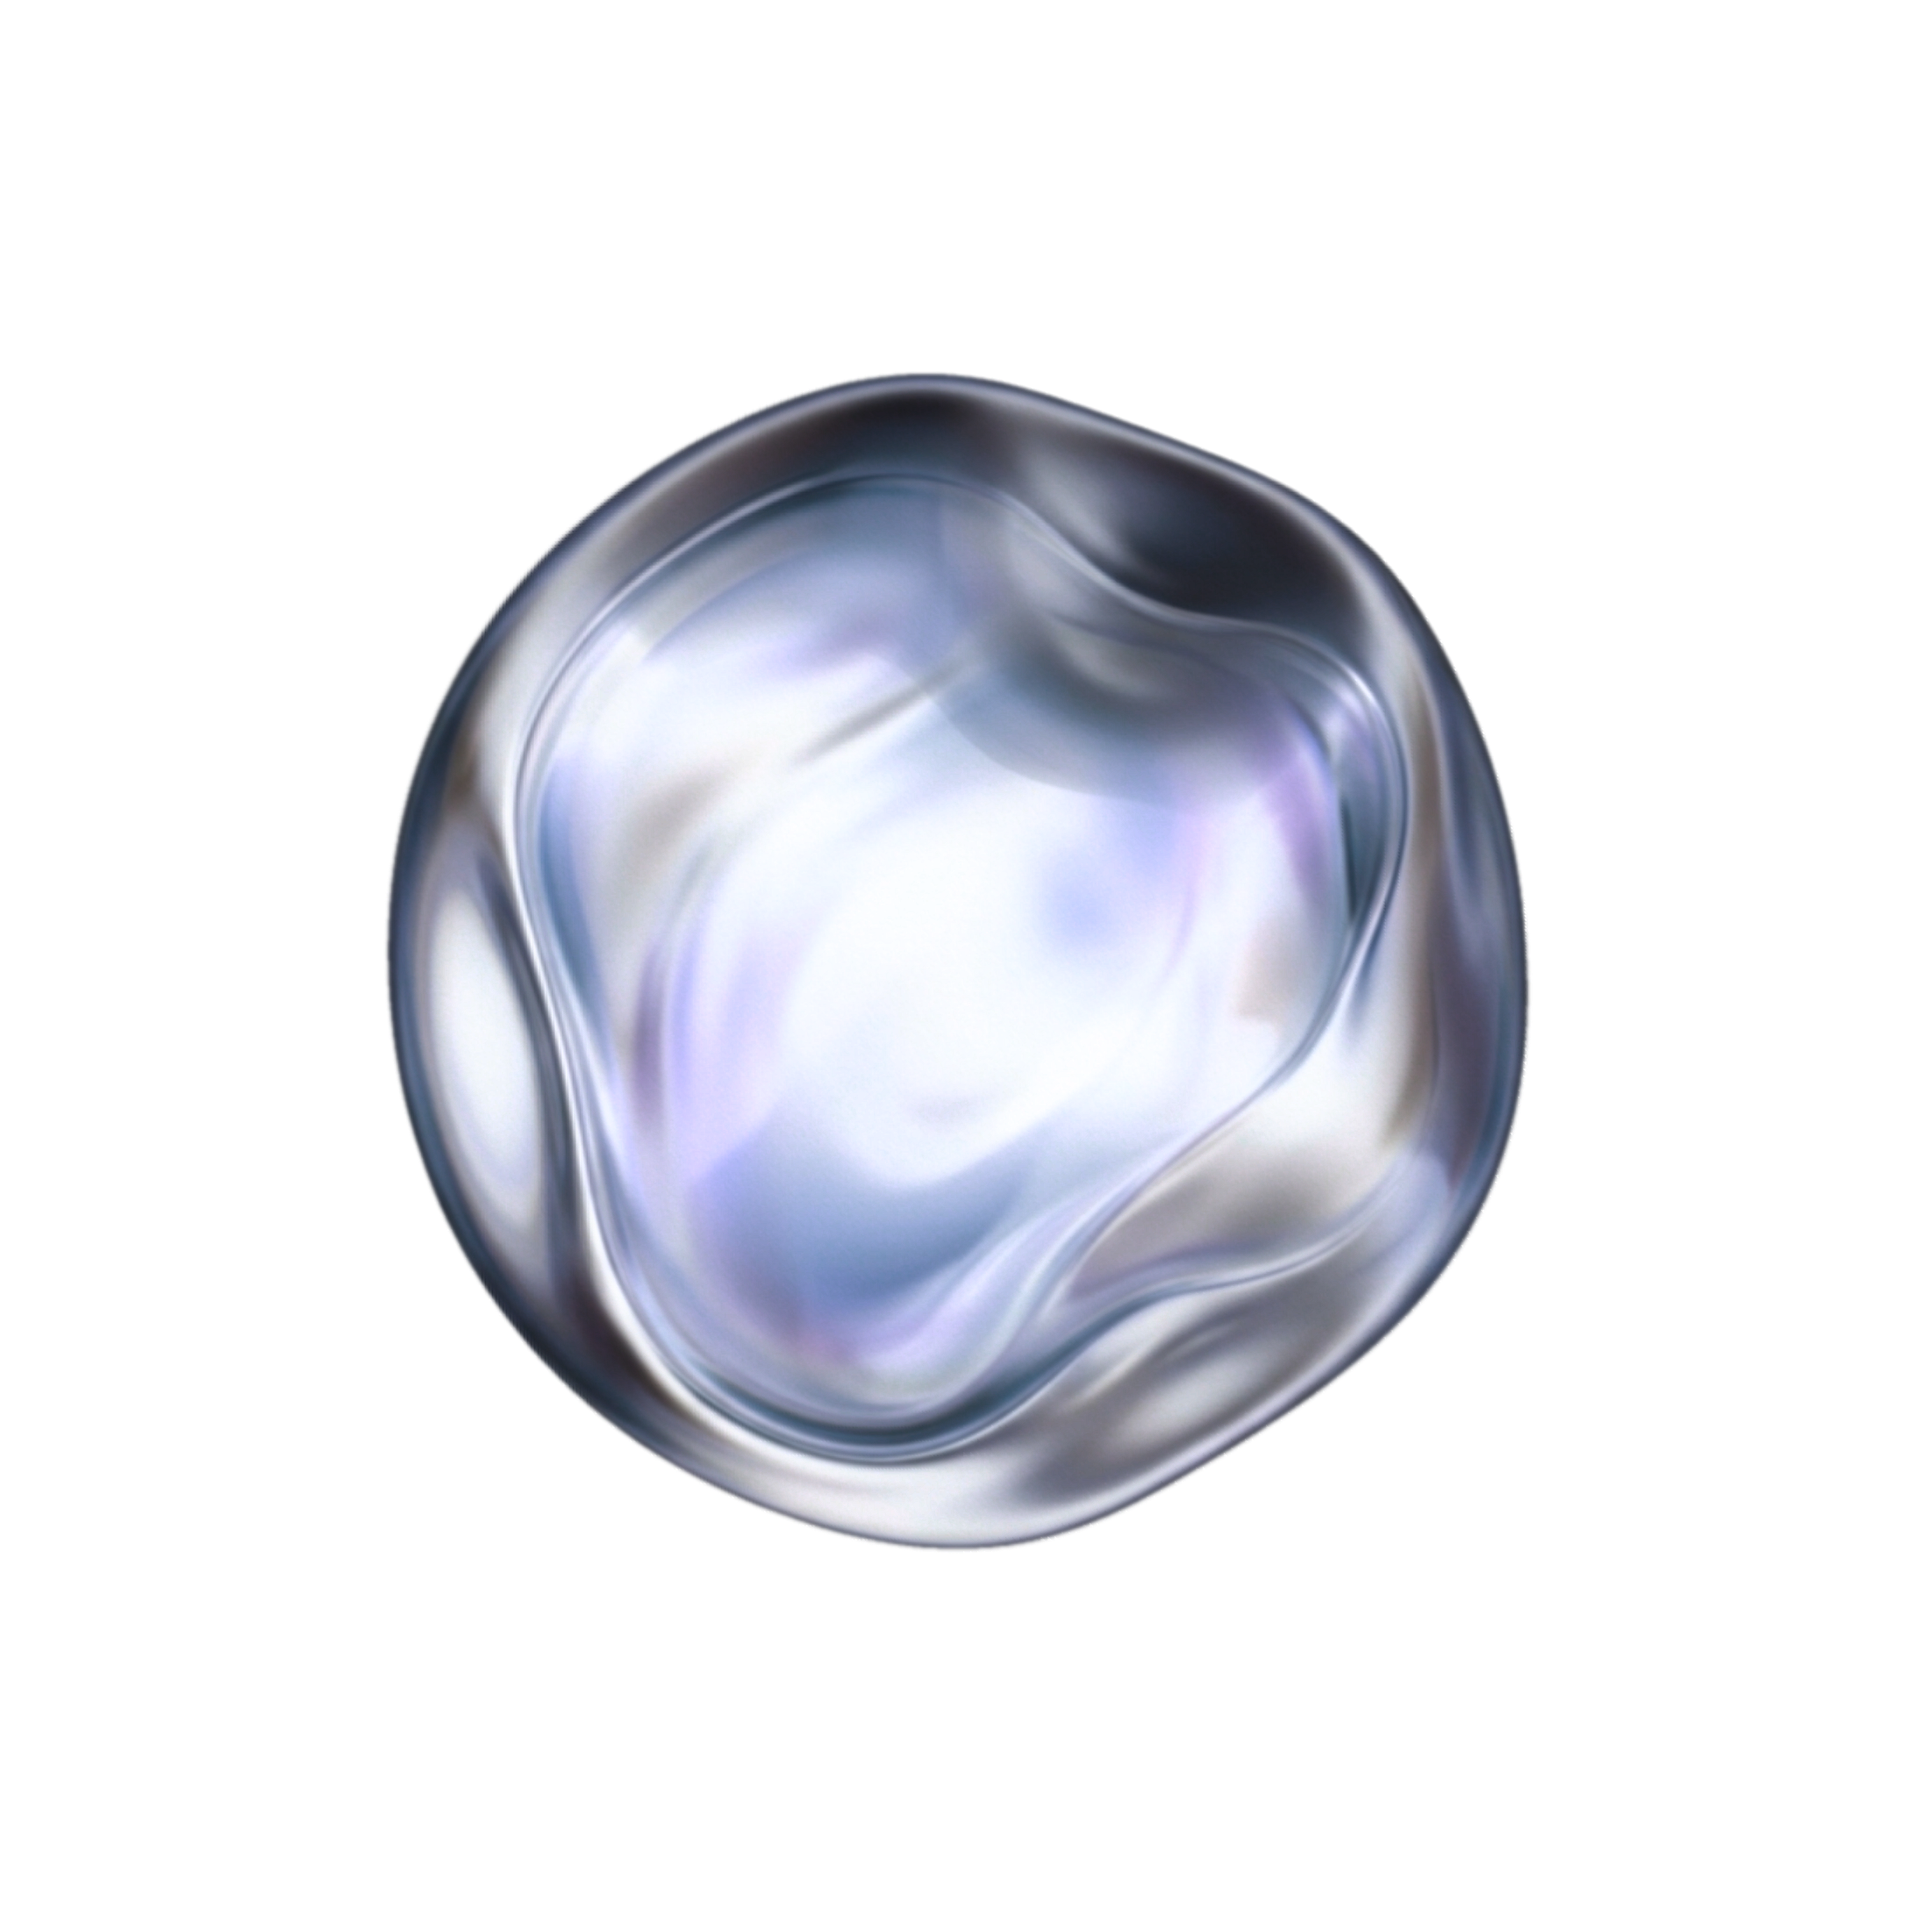
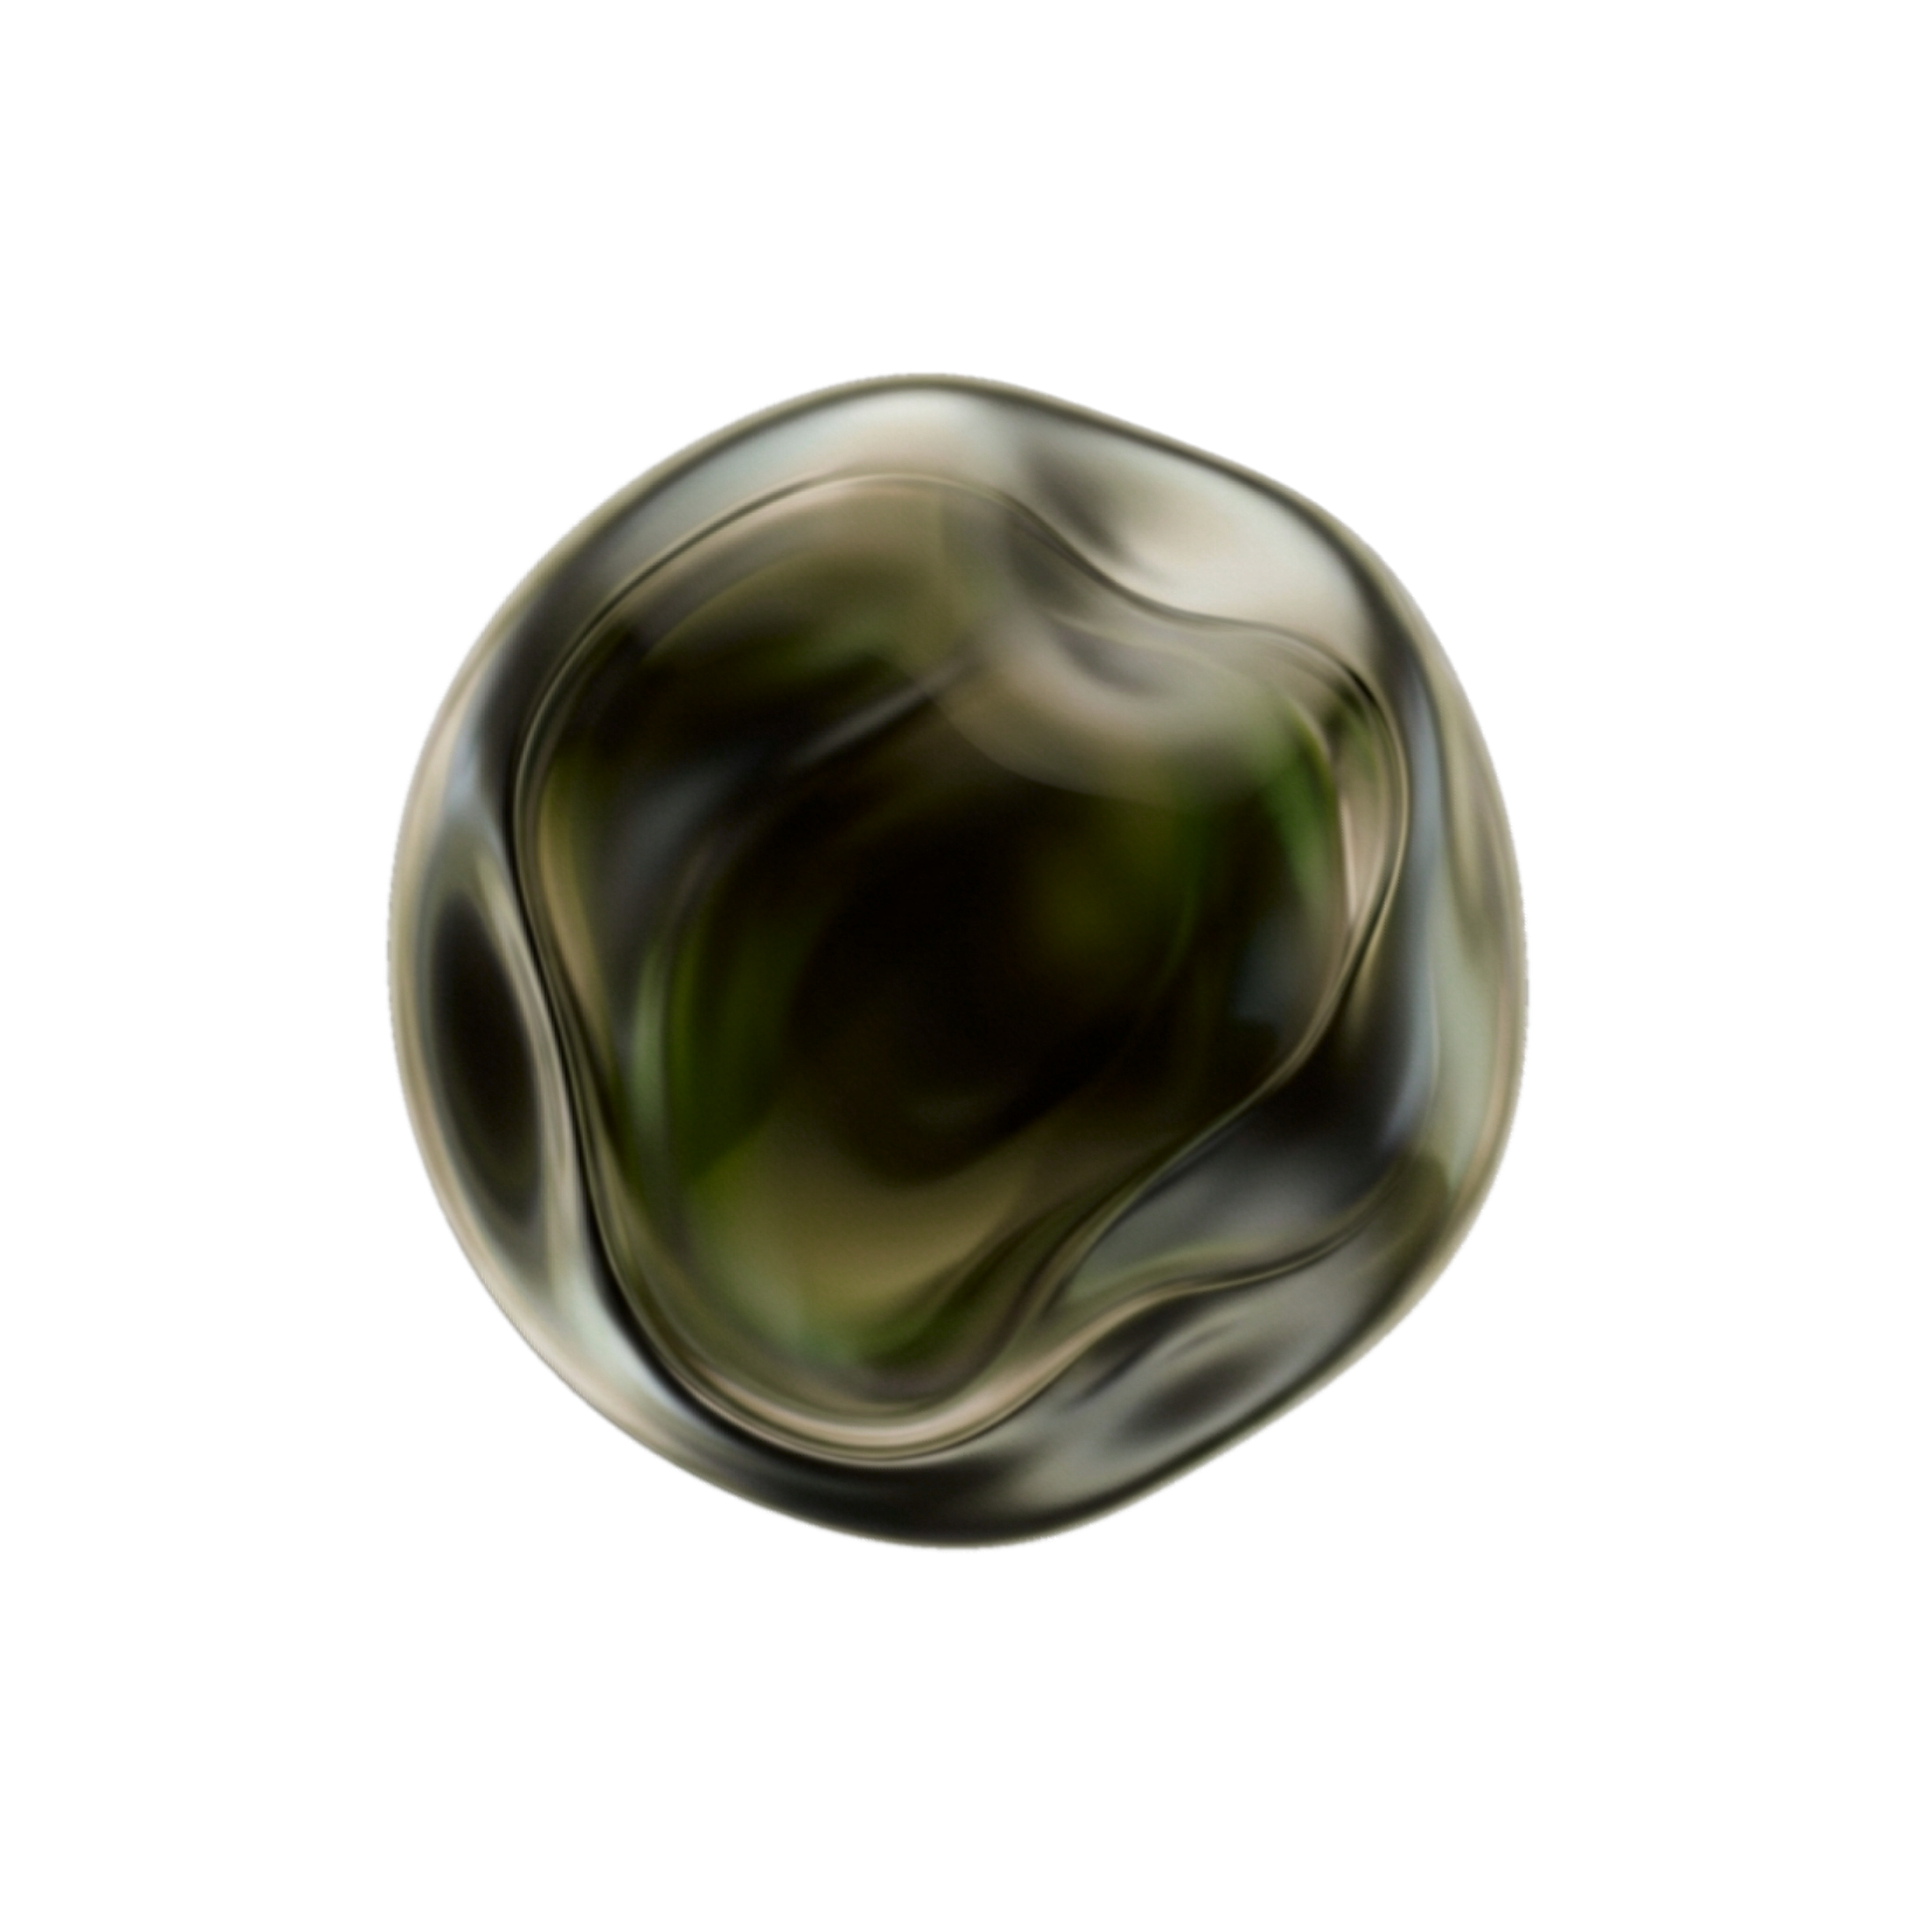
feat: add application command sync system & optimize termux setup script

Changed region(s): [[0.1868, 0.1868, 0.8095, 0.8095]]

diff --git a/core/cog/dev/root.py b/core/cog/dev/root.py
@@ -2,6 +2,7 @@
 
 import asyncio
 import traceback
+from typing import Literal
 
 import discord
 from discord import app_commands as app
@@ -41,6 +42,7 @@ class DevRoot(commands.Cog):
 				"* send          (s)",
 				"* code          (c)",
 				"* reload_config (r)",
+				"* update        (u)",
 				"",
 				"* extension     (e)",
 				"* blacklist     (b)",
@@ -52,6 +54,7 @@ class DevRoot(commands.Cog):
 	async def dev_error(self, ctx: commands.Context, error):
 		if isinstance(error, commands.CheckFailure):
 			await ctx.reply(view=Fail(f"Only developers can use this command."))
+
 
 	@dev.command(
 		name='help',
@@ -93,6 +96,16 @@ class DevRoot(commands.Cog):
 					f"* `{self.p}dev reload_config`",
 					f"* `{self.p}d r`",
 					f"* {config.cmd.dev.reload_config}"
+				),
+				mt(
+					"## Update:",
+					"Update application slash commands so they are in-sync with the system.",
+					"Params:",
+					"* spec: The sync scope: global, dev, clear, or leave empty for local guild copy."
+					"Usage:",
+					f"* `{self.p}dev update global`",
+					f"* `{self.p}d u global`",
+					f"* {config.cmd.dev.get('update')} `spec:` global"
 				),
 				mt(
 					"## Extension:",
@@ -144,13 +157,7 @@ class DevRoot(commands.Cog):
 		aliases=['s'],
 		description='Send a message to the channel.'
 	)
-	@app.describe(
-		message='The message you want to send'
-	)
-	@app.user_install()
-	@app.allowed_installs(
-		guilds=True, users=True
-	)
+	@app.describe(message='The message you want to send')
 	async def send(self, ctx: commands.Context, *, message: str):
 		initial_message = None
 		if ctx.interaction:
@@ -327,4 +334,59 @@ class DevRoot(commands.Cog):
 				"```py",
 				error_traceback,
 				"```"
+			))
+
+
+	@dev.command(
+		name='update',
+		aliases=['u'],
+		description='Update application commands so they are in-sync with the system'
+	)
+	@app.describe(spec='The sync scope: global, dev, clear, or leave empty for local guild copy.')
+	async def update(self, ctx: commands.Context, spec: Literal['global', 'dev', 'clear'] | None = None):
+		if spec == 'global':
+			synced = await self.bot.tree.sync()
+			if hasattr(self.bot, '_map_command_mentions'):
+				self.bot._map_command_mentions(synced)
+
+			await ctx.reply(view=Success(
+				"Success",
+				f"Synced {len(synced)} global application commands."
+			))
+		elif spec == 'dev':
+			dev_guilds = [discord.Object(id=g_id) for g_id in config.dev_server_ids]
+			total = 0
+			for guild in dev_guilds:
+				try:
+					synced = await self.bot.tree.sync(guild=guild)
+					total += len(synced)
+				except discord.HTTPException:
+					pass
+
+			await ctx.reply(view=Success(
+				"Success",
+				f"Synced {total} application commands across dev servers."
+			))
+		elif spec == 'clear':
+			self.bot.tree.clear_commands(guild=ctx.guild)
+			await self.bot.tree.sync(guild=ctx.guild)
+
+			await ctx.reply(view=Success(
+				"Success",
+				"Cleared and synced this guild's local tree commands."
+			))
+		else:
+			if not ctx.guild:
+
+				await ctx.reply(view=Fail(
+					"Failed",
+					"Provide an explicit scope when run outside a guild server."
+				))
+				return
+			self.bot.tree.copy_global_to(guild=ctx.guild)
+			synced = await self.bot.tree.sync(guild=ctx.guild)
+
+			await ctx.reply(view=Success(
+				"Success",
+				f"Synced {len(synced)} tree commands locally to this guild."
 			))

diff --git a/core/wrp/extension.py b/core/wrp/extension.py
@@ -22,16 +22,21 @@ class Extension:
 			return
 
 		for cog_name, cog in bot.cogs.items():
-			if getattr(cog, '__module__', '').startswith(extension):
-				if getattr(cog, 'dev_only', False):
-					for command in cog.get_app_commands():
+			if getattr(cog, '__module__', '').startswith(extension) and getattr(cog, 'dev_only', False):
+
+				for app_cmd in cog.get_app_commands():
+					for guild_id in dev_guilds:
+						bot.tree.add_command(app_cmd, guild=discord.Object(id=int(guild_id)), override=True)
+					bot.tree.remove_command(app_cmd.name)
+
+				for cmd in cog.get_commands():
+					if isinstance(cmd, (commands.HybridCommand, commands.HybridGroup)):
+						app_cmd = cmd.app_command
 						for guild_id in dev_guilds:
-							guild_obj = discord.Object(id=int(guild_id))
-							bot.tree.add_command(command, guild=guild_obj, override=True)
+							bot.tree.add_command(app_cmd, guild=discord.Object(id=int(guild_id)), override=True)
+						bot.tree.remove_command(app_cmd.name)
 
-						bot.tree.remove_command(command.name)
-
-					log.debug(f"Registered app commands for cog '{cog_name}' ({extension}) in dev guilds.")
+				log.info(f"Registered app commands for {extension} in dev guilds.")
 
 	async def get_all(self) -> List[str]:
 		extensions = []
@@ -89,7 +94,7 @@ class Extension:
 
 			if module_path in bot.extensions:
 				await self.unload(bot, module_path)
-			
+
 			return await self.load(bot, module_path)
 
 		except SyntaxError as e:

diff --git a/bot.py b/bot.py
@@ -64,13 +64,6 @@ class Bot(commands.Bot):
 			walk(cmd)
 		log.debug(config.cmd)
 
-	async def on_error(self, event_method, *args, **kwargs):
-		exc_type, exc_val, exc_tb = sys.exc_info()
-		if isinstance(exc_val, aiohttp.ClientConnectorDNSError):
-			log.error("DNS Resolution failed.")
-			return
-		await super().on_error(event_method, *args, **kwargs)
-
 	async def setup_hook(self):
 		log.info("Starting Setup...")
 
@@ -81,23 +74,7 @@ class Bot(commands.Bot):
 			except NotImplementedError:
 				pass
 
-		dev_guilds = [discord.Object(id=g_id) for g_id in config.dev_server_ids]
-
 		await extension.load_all(self)
-
-		log.info("Syncing application commands...")
-		synced_global = await self.tree.sync()
-
-		total_dev_synced = 0
-		for guild in dev_guilds:
-			try:
-				dev_synced = await self.tree.sync(guild=guild)
-				total_dev_synced += len(dev_synced)
-			except discord.HTTPException as e:
-				log.error(f"Failed to sync dev guild {guild.id}: {e}")
-
-		log.info(f"Sync Complete: {len(synced_global)} Global, {total_dev_synced} Dev")
-		self._map_command_mentions(synced_global)
 
 	async def determine_prefix(self, _, message):
 		guild_settings = {}

diff --git a/meta/settings.py b/meta/settings.py
@@ -11,7 +11,7 @@ import pytz
 from core.lib.dataclass import Data, Computed, Method, AntiFreeze
 from core.lib.utils import F, mt
 from core.lib.file import ial_file
-from meta.paths import sub, file
+from meta.paths import file
 
 
 log = logging.getLogger(__name__)
@@ -35,17 +35,17 @@ async def load_config():
 		for i, error in enumerate(e.errors):
 			log.error(f"{i}. {error}", exc_info=True)
 
-	if not success:
+	if not success: # type: ignore
 		log.critical(f"Failed to load {file.conf}")
 		sys.exit(10)
 
 	try:
-		config.update(Data.load(data))
+		config.update(Data.load(data)) # type: ignore
 	except Exception:
 		log.critical("An error occurred while parsing config into Data object", exc_info=True)
 		sys.exit(10)
 
-	log.debug(json.dumps({k: v for k, v in data.items() if k != "system_instructions"}))
+	log.debug(json.dumps({k: v for k, v in data.items() if k != "system_instructions"})) #type: ignore
 
 	allowed_prefixes = tuple(f"{m}." for m in config.sandbox.allowed_modules)
 	allowed_exact = set(config.sandbox.allowed_modules)

diff --git a/core/lib/file.py b/core/lib/file.py
@@ -10,17 +10,10 @@ import threading
 from abc import ABC, abstractmethod
 from contextlib import asynccontextmanager
 from pathlib import Path
-from typing import Any, AsyncIterator, Generic, TypeVar
+from typing import cast, AsyncIterator, Generic, TypeVar
 
 try:
 	import orjson
-
-	try:
-		import tomli
-		import tomli_w
-	except ImportError:
-		tomli = None
-		tomli_w = None
 
 	try:
 		import yaml
@@ -41,7 +34,6 @@ except ImportError:
 	tomli_w = None
 	yaml = None
 	ial = None
-
 
 
 log = logging.getLogger(__name__)
@@ -523,9 +515,9 @@ _default = (
 )
 
 text_file = TEXT(*_default)
-json_file = JSON(*_default) if orjson            else None
-yaml_file = YAML(*_default) if yaml   and orjson else None
-ial_file  =  IAL(*_default) if ial    and orjson else None
+json_file = cast(JSON, JSON(*_default) if orjson else None)
+yaml_file = cast(YAML, YAML(*_default) if yaml and orjson else None)
+ial_file  = cast(IAL,  IAL(*_default)  if ial  and orjson else None)
 
 
 __all__ = (

diff --git a/bootstrap.py b/bootstrap.py
@@ -8,13 +8,10 @@ import json
 import logging
 import os
 import re
-import shutil
 import sys
 import time
 import traceback
-import textwrap
 import termios
-import tty
 import warnings
 from logging.handlers import TimedRotatingFileHandler
 
@@ -157,7 +154,7 @@ class HtmlTimedRotatingFileHandler(TimedRotatingFileHandler):
 			stream.flush()
 		return stream
 
-class RichHandler(RichHandler):
+class RichHandlerv2(RichHandler):
 	def emit(self, record):
 		if (
 			record.name.startswith("discord")
@@ -199,7 +196,7 @@ def setup_console_logging():
 	root_logger.setLevel(logging.DEBUG)
 	root_logger.handlers.clear()
 
-	console_handler = RichHandler(
+	console_handler = RichHandlerv2(
 		level=logging.INFO,
 		rich_tracebacks=True,
 		tracebacks_show_locals=False,

diff --git a/core/cog/utils.py b/core/cog/utils.py
@@ -65,13 +65,13 @@ class HybridGroup(commands.HybridGroup):
 	def __init__(self, *args, **kwargs):
 		super().__init__(*args, **kwargs)
 
-		for name, attr in self.__class__.__dict__.items():
+		for _, attr in self.__class__.__dict__.items():
 			if isinstance(attr, commands.Command):
 				cmd = attr.copy()
 
 				cmd._callback = cmd.callback.__get__(self, self.__class__)
 
 				if getattr(cmd, 'on_error', None):
-					cmd._on_error = cmd.on_error.__get__(self, self.__class__)
+					setattr(cmd, '_on_error', cmd.on_error.__get__(self, self.__class__))
 
-				self.add_command(cmd)
+				self.add_command(cmd) # type: ignore

diff --git a/core/cog/root/events.py b/core/cog/root/events.py
@@ -188,8 +188,8 @@ class Events(commands.Cog):
 			if await blacklist.is_blacklisted(guild.id, "server"):
 				log.warning(f"Found blacklisted guild {guild.name} ({guild.id}). Leaving...")
 				await guild.leave()
-			if not await server.is_setup(guild.id):
-				await server.setup(guild)
+			# if not await server.is_setup(guild.id):
+			# 	await server.setup(guild)
 
 		if not self.cleanup_old_data.is_running():
 			self.cleanup_old_data.start()

diff --git a/README.md b/README.md
@@ -1,7 +1,7 @@
 <div align="center">
 	<img src="icon.png" alt="Vion Logo" width="120" height="120" />
 	<h1>Vion: The Unrestricted AI Discord Agent</h1>
-	<p><em>An advanced AI agent designed with robust modularity and sandbox execution capabilities, capable of doing *ANYTHING* within Discord.</em></p>
+	<p><em>An advanced AI agent designed with robust modularity and sandbox execution capabilities, capable of doing ANYTHING within Discord.</em></p>
 </div>
 
 ---
